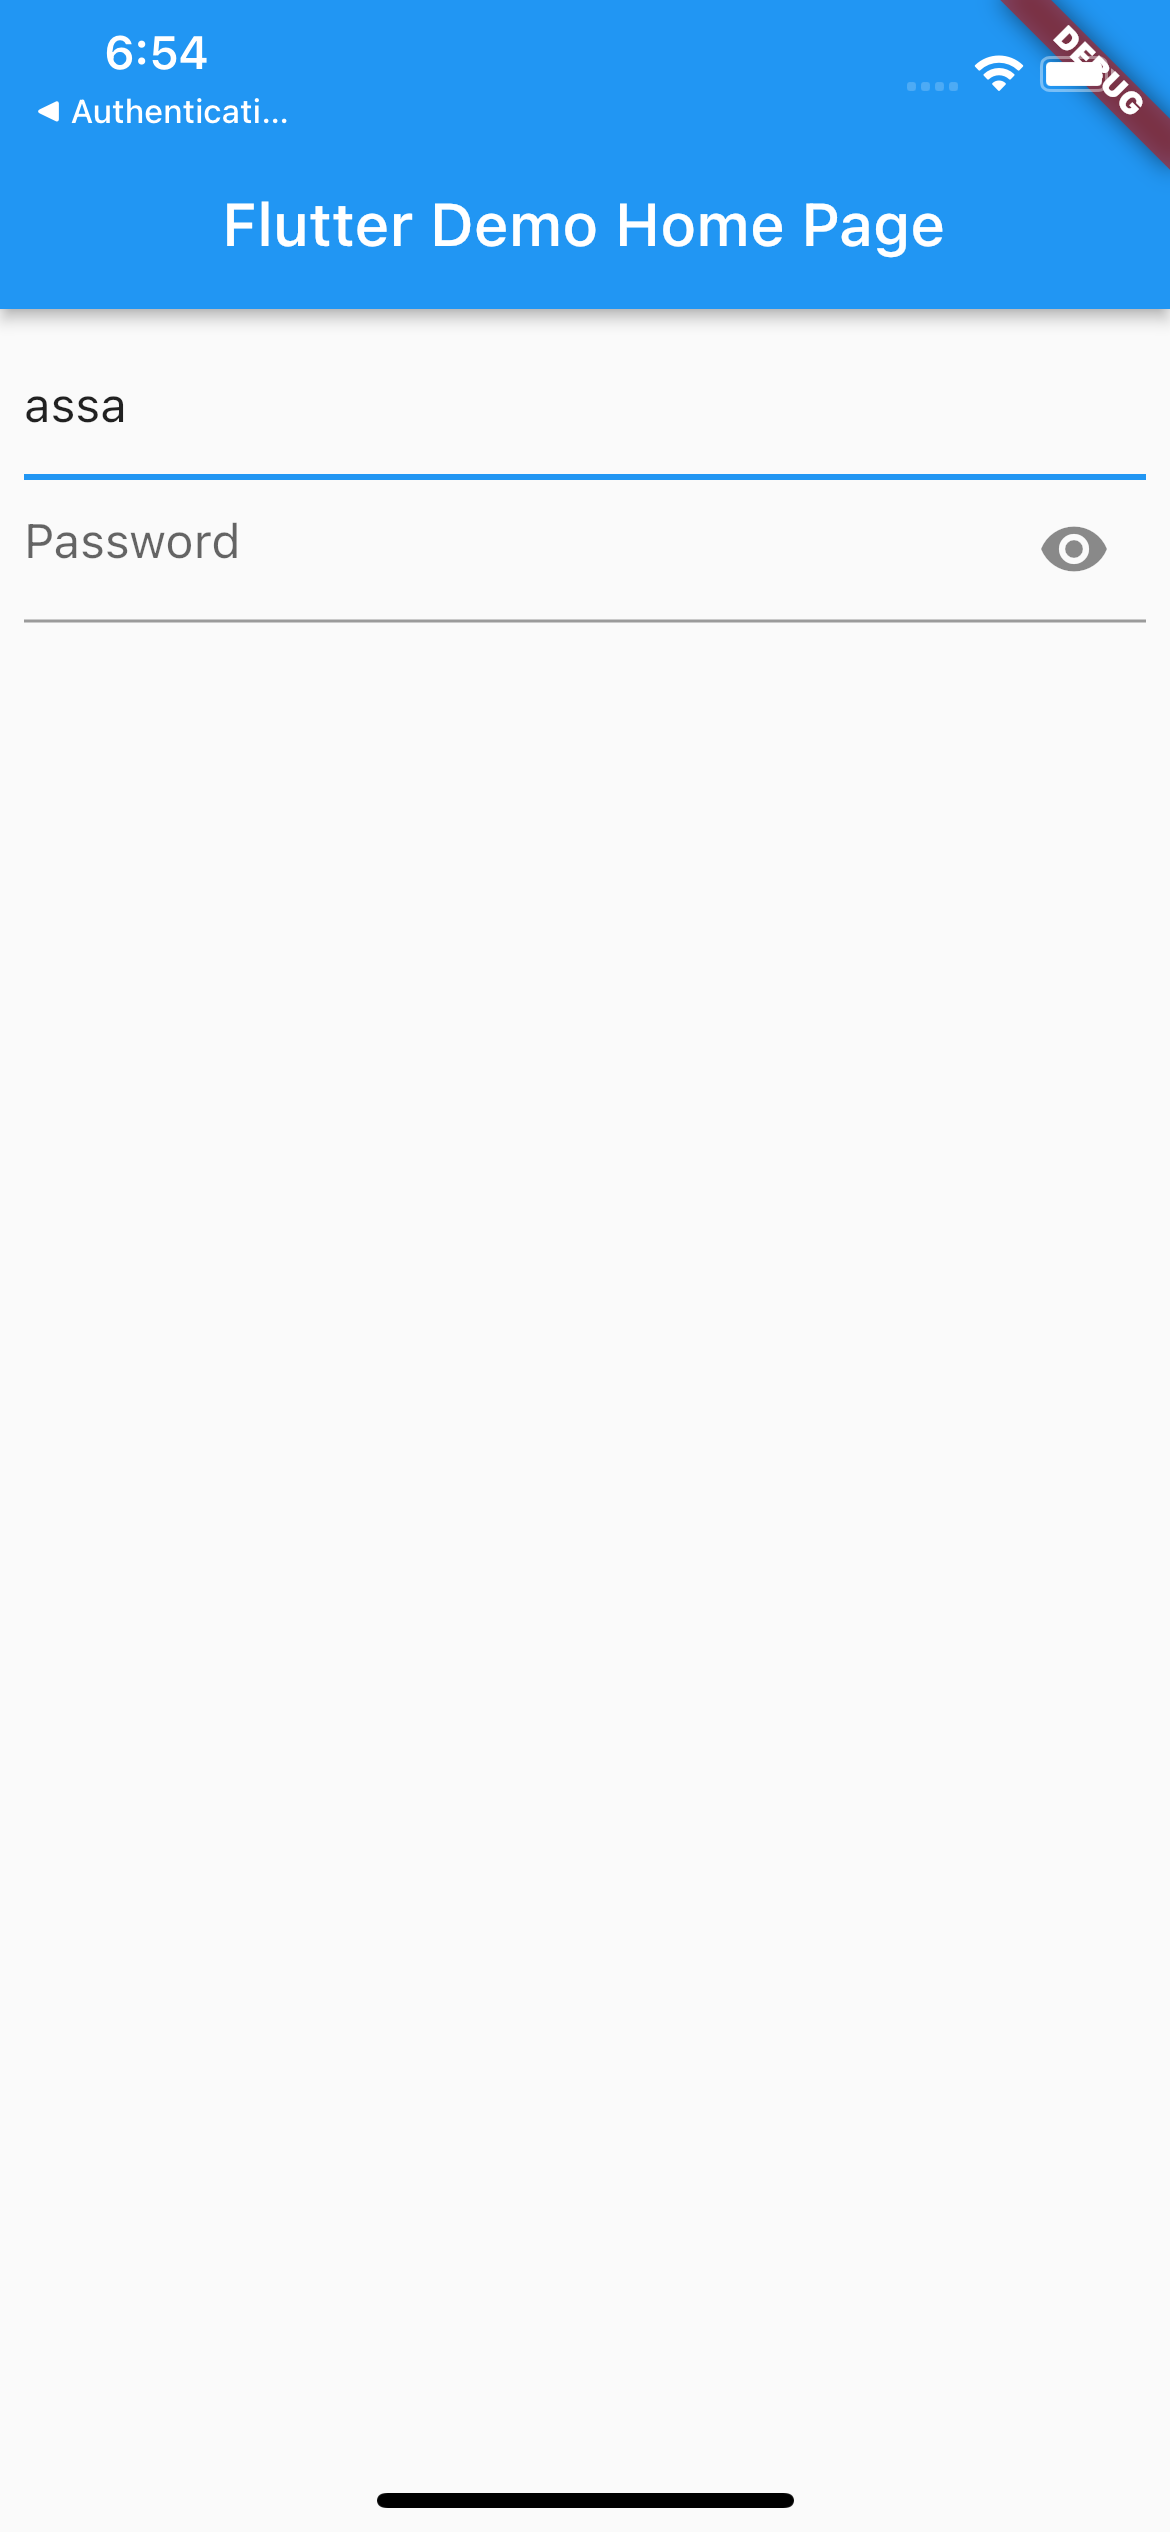
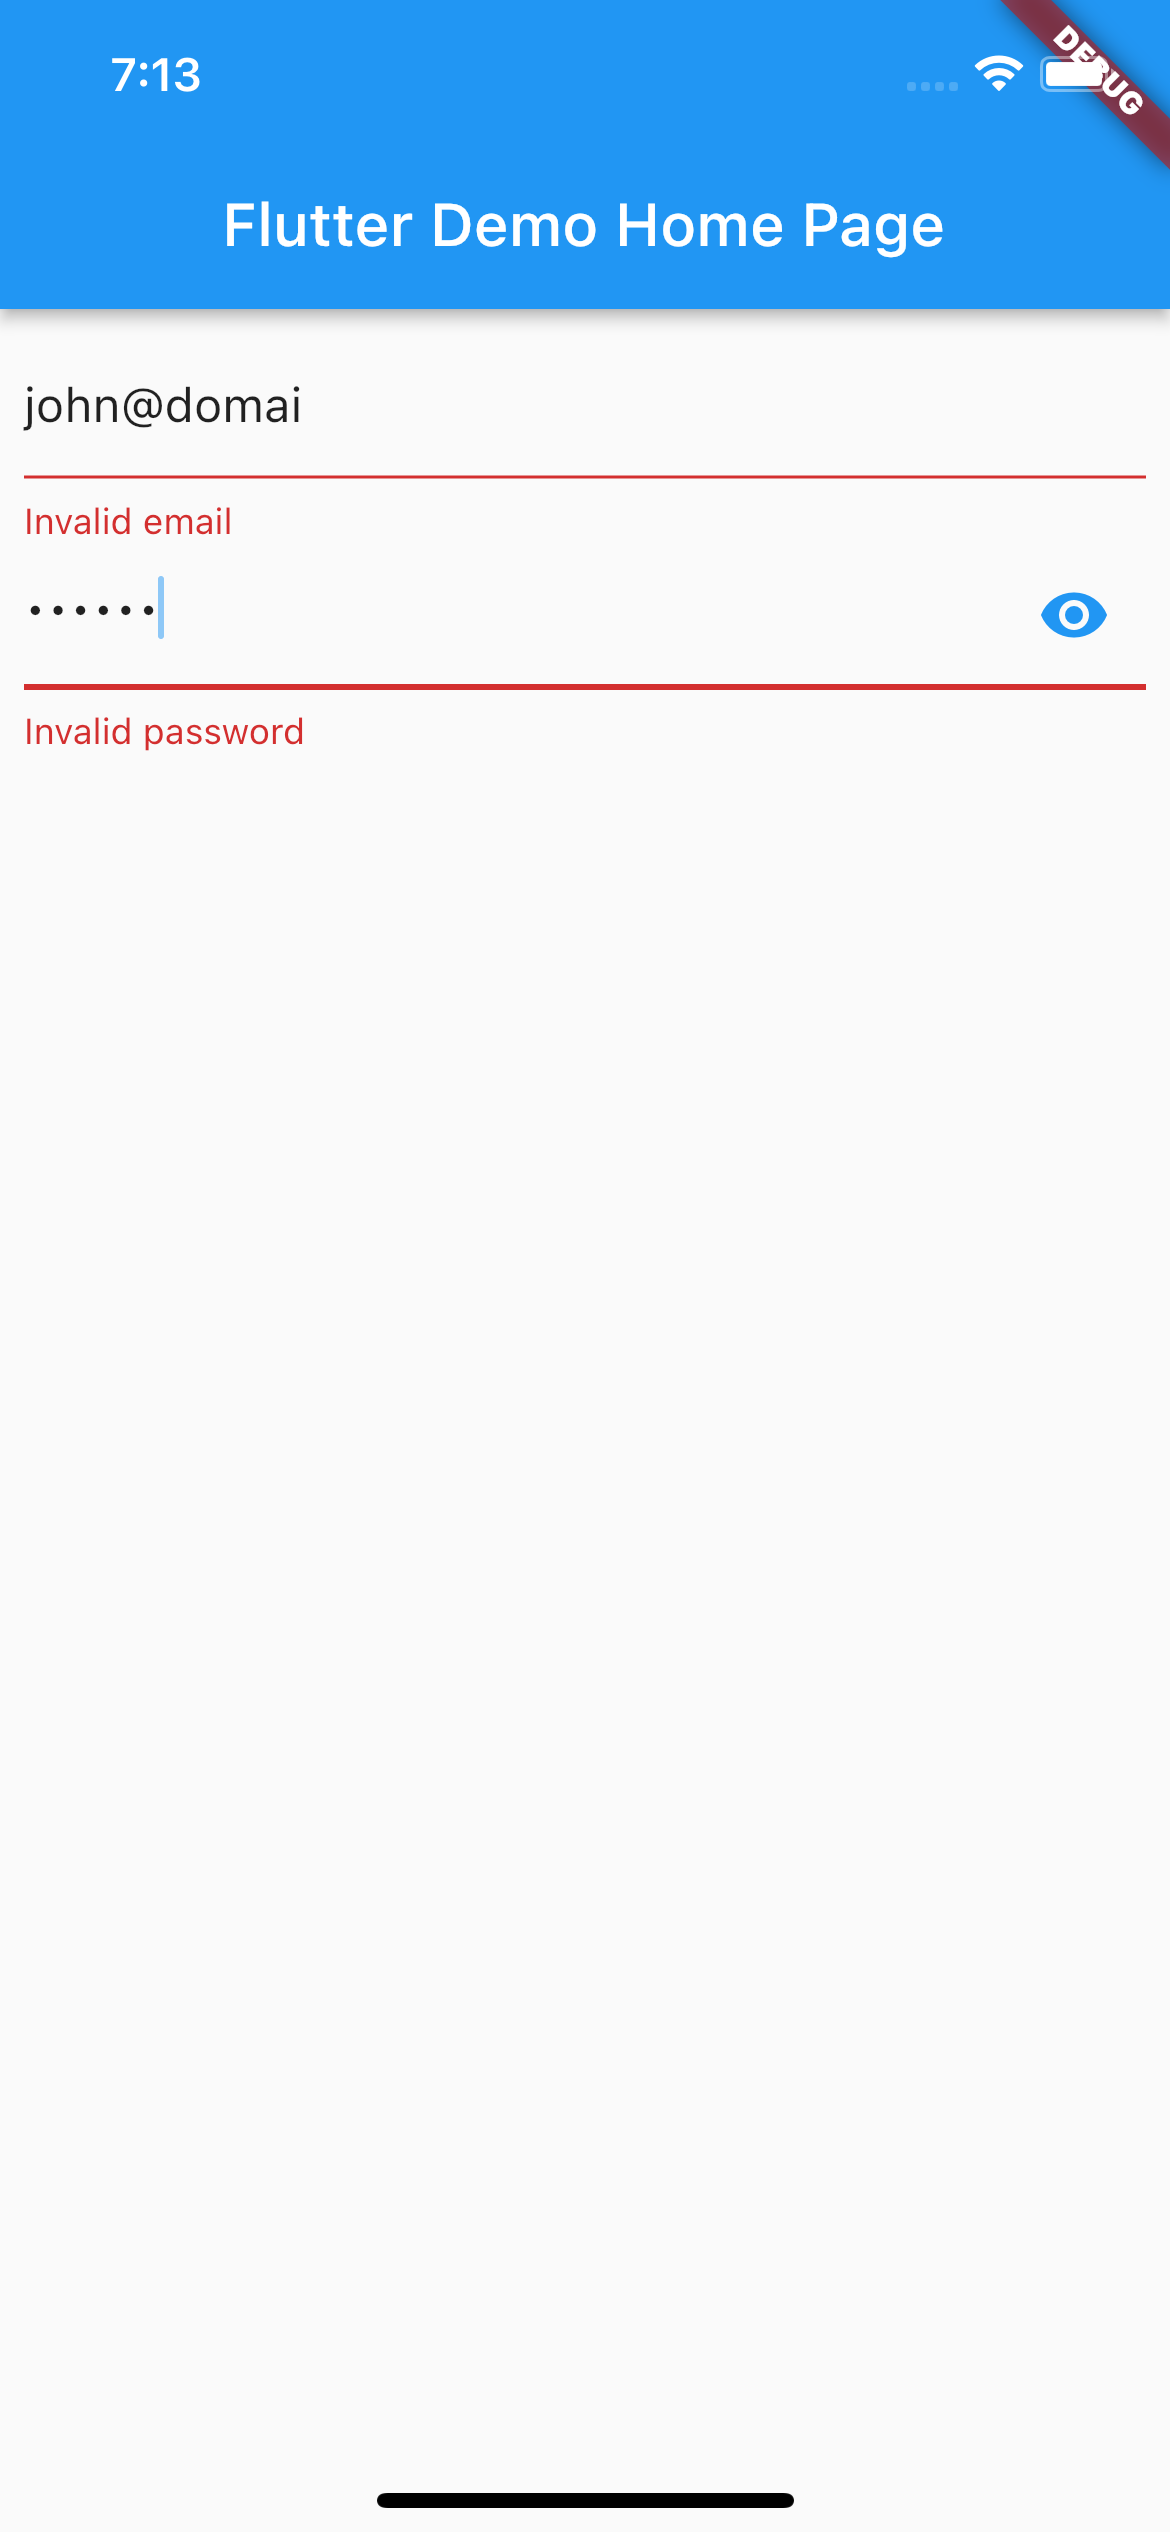
Ajout de la documentation

diff --git a/README.md b/README.md
@@ -18,7 +18,23 @@ class HomeScreen extends StatelessWidget {
       appBar: AppBar(
         title: const Text('Flutter Demo Home Page'),
       ),
-      body: Container(), // Complet example code
+      body: Padding(
+        padding: const EdgeInsets.all(8.0),
+        child: Column(
+          children: [
+            emailInput(
+              label: "Email",
+              controller: TextEditingController(),
+              textInputAction: TextInputAction.next, /// optional
+            ),
+            passwordInput(
+              label: "Password",
+              controller: TextEditingController(),
+              customValidator: (value) => value.length > 6, /// optional
+            ),
+          ],
+        ),
+      ),
   }
 }
 ```
